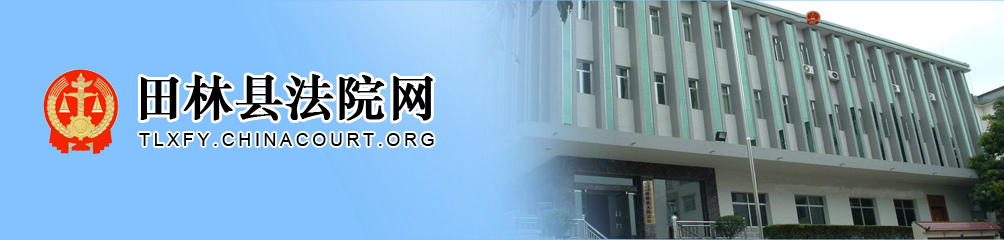
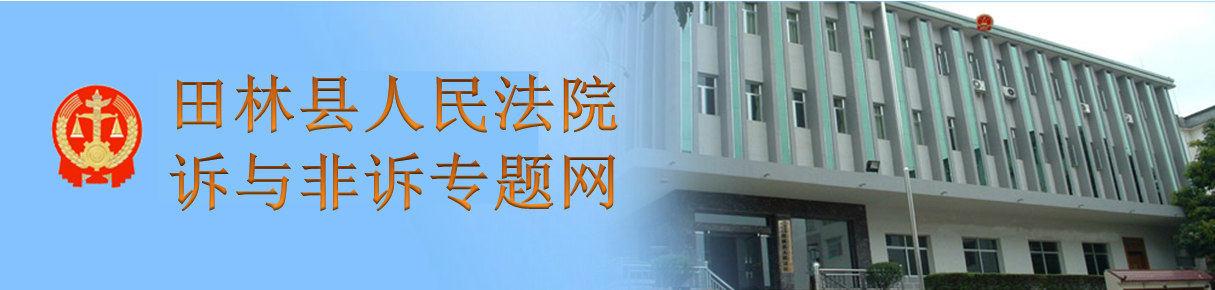
header picture complete

diff --git a/templates/main/main_page.html b/templates/main/main_page.html
@@ -1,5 +1,7 @@
 {% extends "main/base.html" %}
 {% block content %}
+<div>
+<div class='main_grid'>
 本院简介<br>
 {% if is_admin %}
 <a href='create_intro/'>添加简介</a><br>
@@ -8,7 +10,8 @@
 <li><a href='/news/{{i.get_id}}/'>{{i.get_title}}</a></li>
 {% endfor %}
 <a href='/intro/all/'><更多></a><br>
-<br>
+</div>
+<div class='main_grid'>
 本院新闻<br>
 {% if is_admin %}
 <a href='create_news/'>添加新闻</a><br>
@@ -17,7 +20,8 @@
 <li><a href='/news/{{n.get_id}}/'>{{n.get_title}}</a></li>
 {% endfor %}
 <a href='/news/all/'><更多></a><br>
-<br>
+</div>
+<div class='main_grid'>
 法律法规<br>
 {% if is_admin %}
 <a href='create_law/'>添加法律法规</a><br>
@@ -26,7 +30,8 @@
 <li><a href='/news/{{l.get_id}}/'>{{l.get_title}}</a></li>
 {% endfor %}
 <a href='/law/all/'><更多></a><br>
-<br>
+</div>
+<div class='main_grid'>
 业务培训<br>
 {% if is_admin %}
 <a href='create_train/'>添加培训</a><br>
@@ -35,7 +40,8 @@
 <li><a href='/news/{{t.get_id}}/'>{{t.get_title}}</a></li>
 {% endfor %}
 <a href='/train/all/'><更多></a><br>
-<br>
+</div>
+<div class='main_grid'>
 公告栏<br>
 {% if is_admin %}
 <a href='create_notice/'>添加公告</a><br>
@@ -46,7 +52,8 @@
 {% else %}
 登录后方可查看<br>
 {% endif %}
-<br>
+</div>
+<div class='main_grid'>
 文书样式<br>
 {% if is_admin %}
 <a href='/create_doc_example/'>添加文书样式</a><br>
@@ -59,4 +66,6 @@
 {% else %}
 登录后方可查看<br>
 {% endif %}
+</div>
+</div>
 {% endblock %}

diff --git a/templates/main/header.html b/templates/main/header.html
@@ -1,18 +1,14 @@
-<div><img src='/media/pic/pic_header'></div>
-田林县人民法院诉讼与非诉讼专题网(替换为主题图片)<br>
+<div class='pic-header'><img src='/media/pic/pic_header.png' width='960'>
+<div id='login_info'>
 {% if site_start %}
-    <a href='create_users/' >创建初始用户</a><br>
+    <a href='create_users/' >创建初始用户</a>
 {% endif %}
 {% if logged_in %}
-您已登录,{{ userp.get_name }}.<a href='/userp/logout/'>退出登录</a><br>
-<a href='/message/inbox/'>进入站内信箱</a><br>
+您已登录,{{ userp.get_name }}.<a href='/userp/logout/'>退出登录</a>
 {% elif not logged_in %}
-	<form action="/userp/login/" method="POST">
-		{% csrf_token %}
-		<table>{{ form.as_table}}
-		</table>
-		<input type="submit" value="登陆">
-	</form><br>
+    <a href='userp/login/'>登录</a>
 {% endif %}
+</div>
+</div>
 
 {% include "base/nav.html" %}

diff --git a/media/css/style.css b/media/css/style.css
@@ -266,6 +266,28 @@ body {
     margin-bottom: 8px;
 }
 
+.pic_header {
+    height:100%;
+    width:100%;
+    float:left;
+    position:relative;
+}
+
+#login_info {
+    width:100%;
+    position:relative;
+    float:left;
+    margin-top:-20px;
+    z-index:1;
+}
+
+.main_grid {
+    width:50%;
+    height:100%;
+    float:left;
+    position:relative;
+}
+
 .header_info {
 	height:64px;
 	padding-left:78%;
@@ -376,8 +398,10 @@ input[type="text"],input[type="password"] {
 }
 
 #header {
-	height: 100px;
+	height: 100%;
 	width: 100%;
+    position: relative;
+    float: left;
 }
 
 #content {

diff --git a/templates/userp/login.html b/templates/userp/login.html
@@ -1,0 +1,6 @@
+<form action="/userp/login/" method="POST">
+    {% csrf_token %}
+    <table>{{ form.as_table}}
+    </table>
+    <input type="submit" value="登录">
+</form><br>

diff --git a/user_profile/views.py b/user_profile/views.py
@@ -68,7 +68,7 @@ def log_in(request):
     else:
         form = LoginForm()
 
-    return HttpResponseRedirect('/')
+    return render_to_response('userp/login.html', RequestContext(request, locals()))
 
 def log_out(request):
     logout(request)

diff --git a/main/views.py b/main/views.py
@@ -43,3 +43,4 @@ def main_page(request):
     doc_example = DocExample.objects.all()[0:5]
 
     return render_to_response('main/main_page.html', RequestContext(request, locals()))
+
